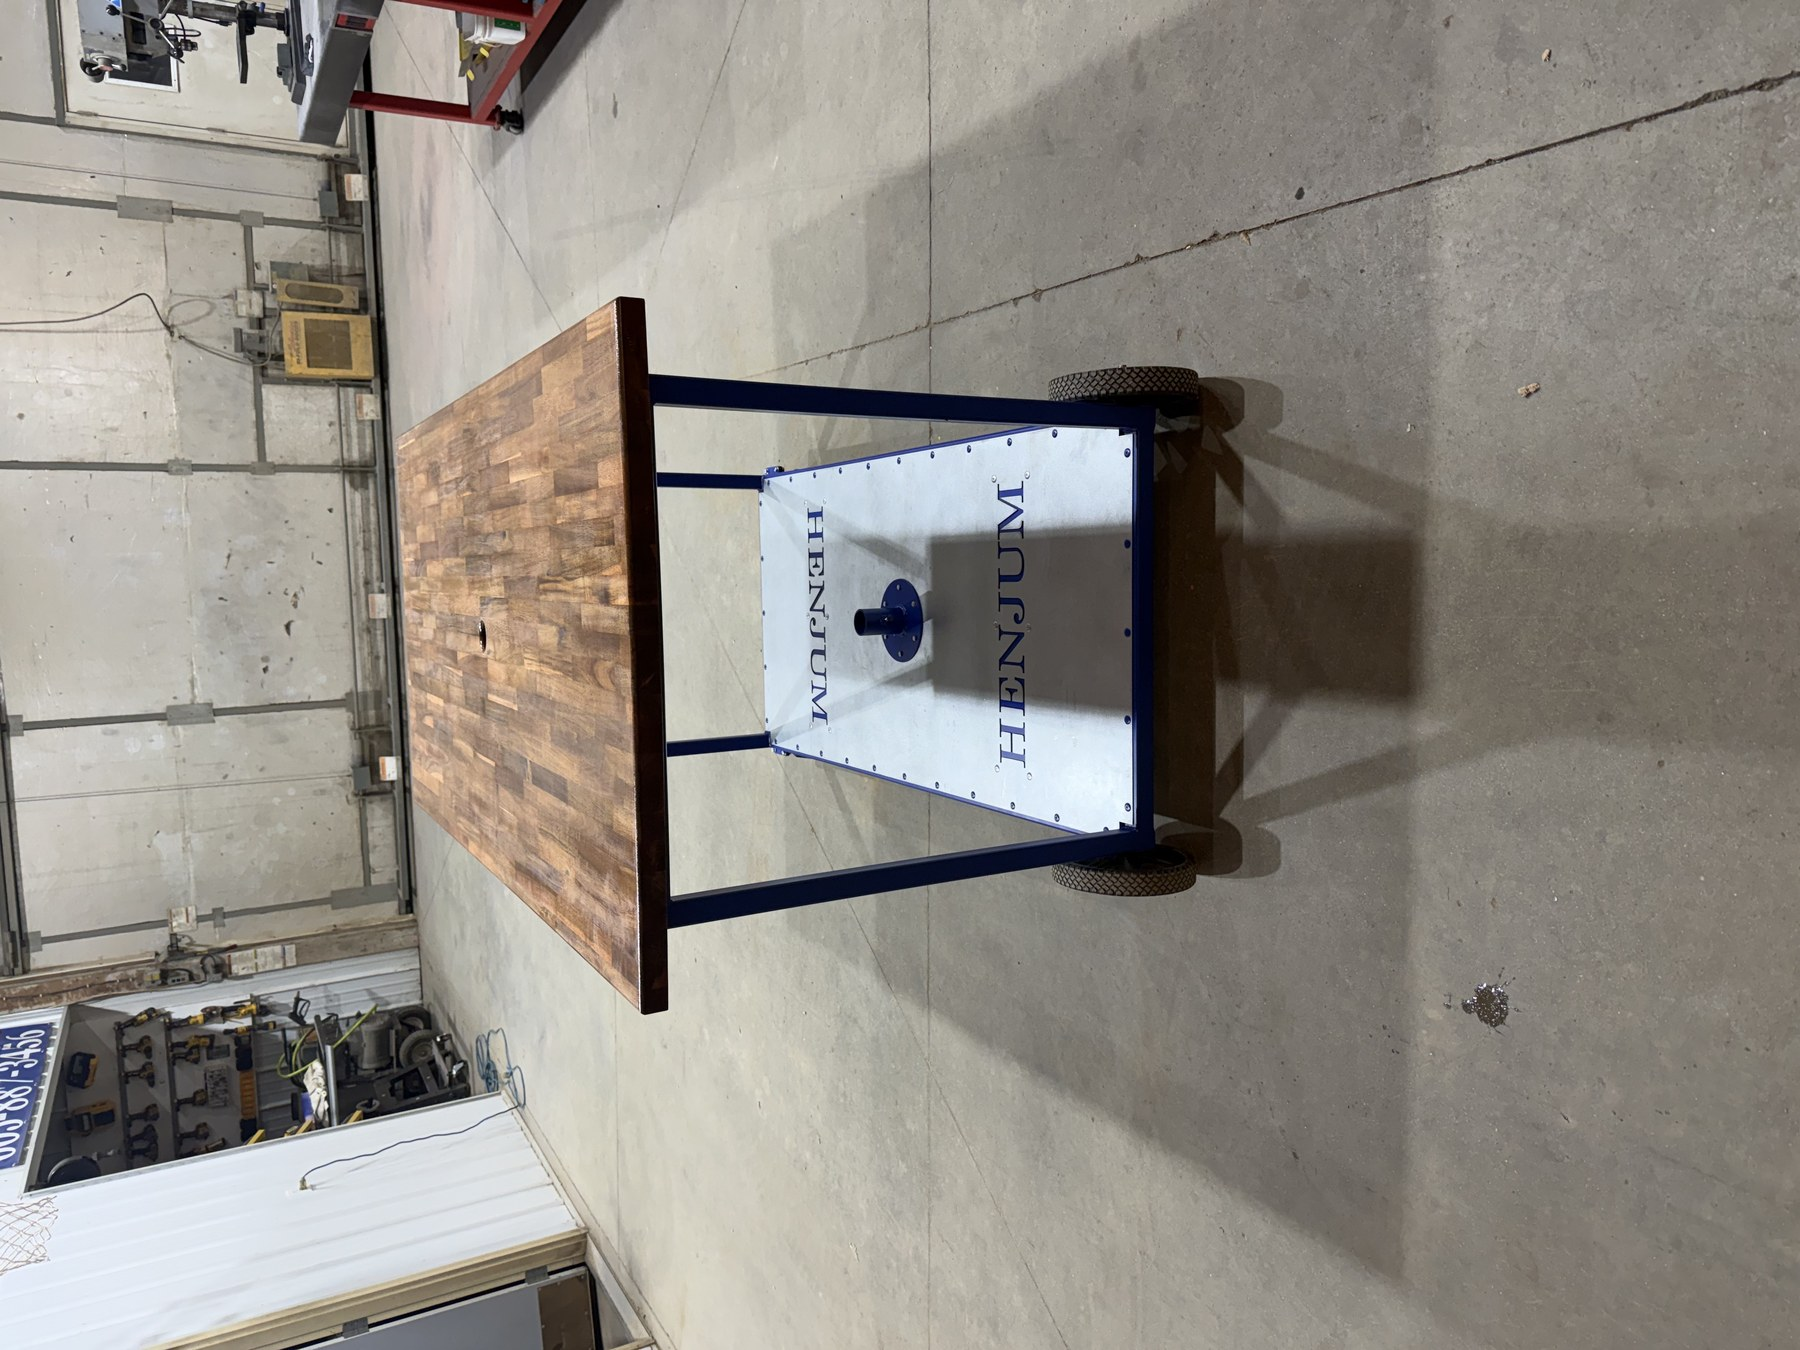
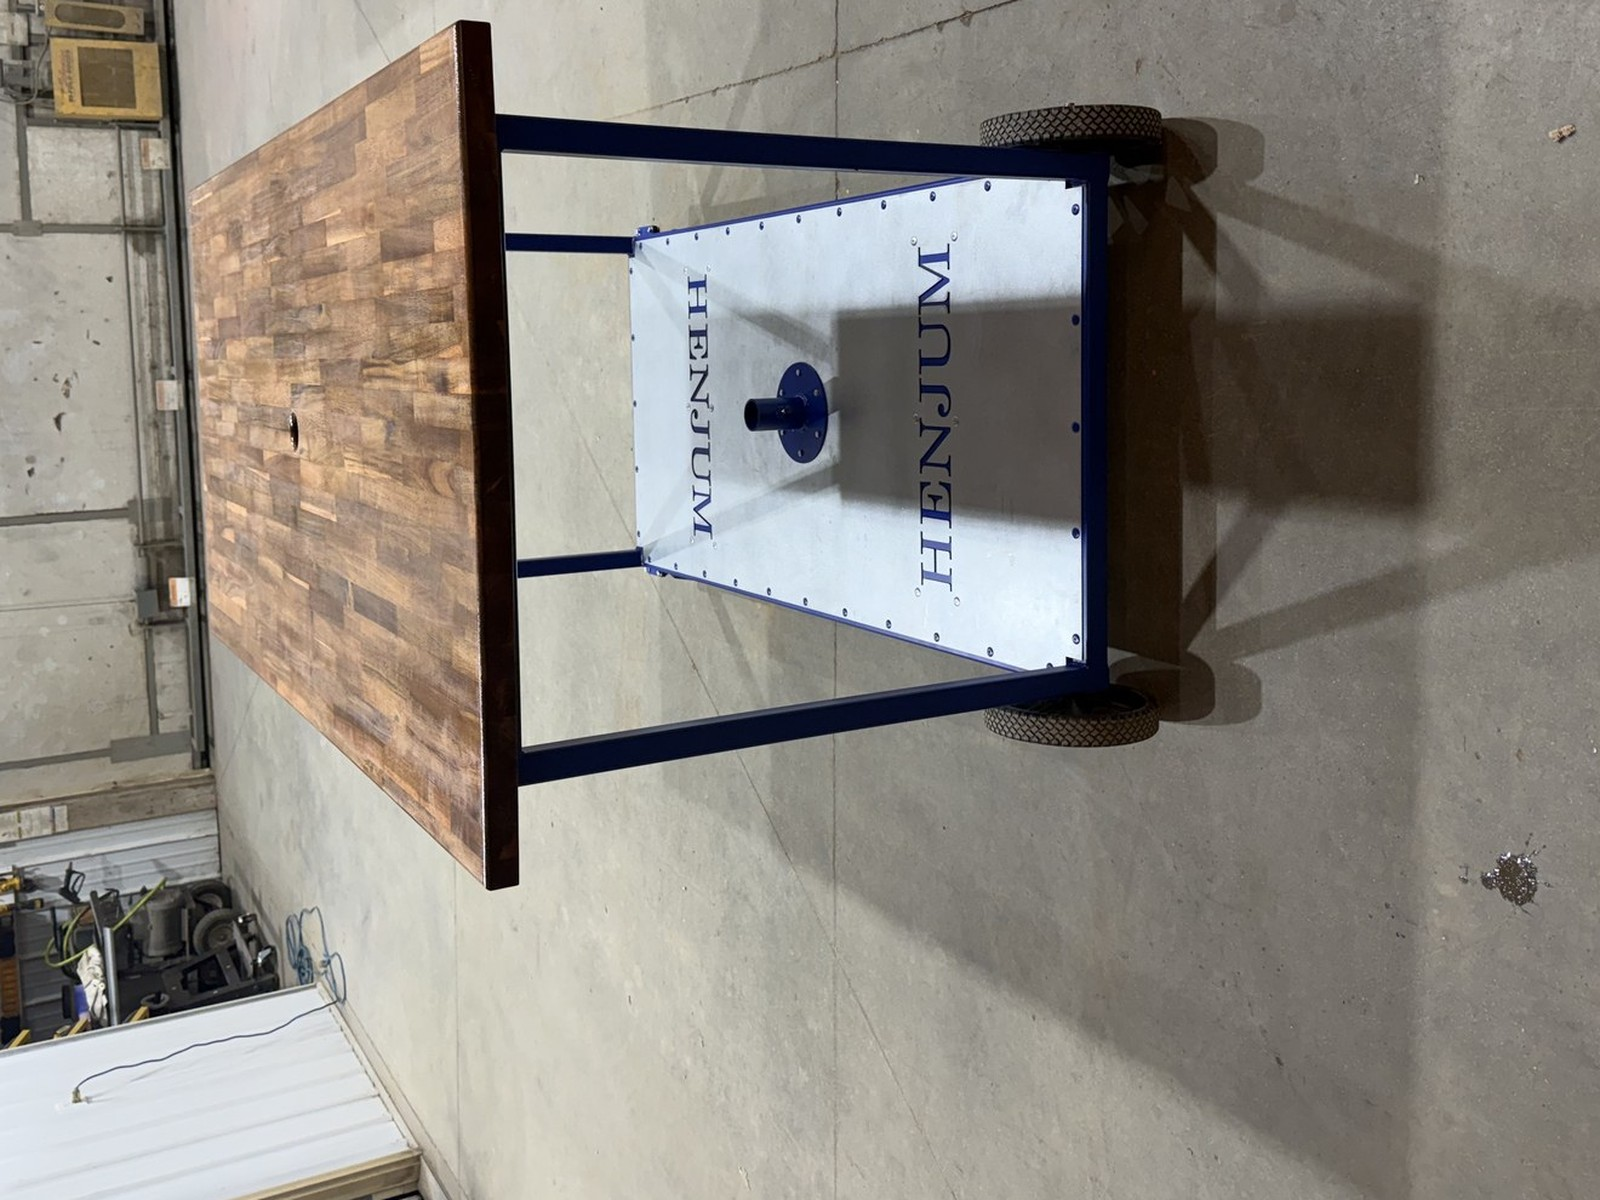
Better rolling-table hero crop and starting price at ,850.

diff --git a/src/lib/catalog.ts b/src/lib/catalog.ts
@@ -248,7 +248,7 @@ export const PRODUCTS: Product[] = [
     name: "Rolling Tables",
     category: "tables",
     kind: "custom",
-    priceCents: 149500,
+    priceCents: 185000,
     priceNote: "Starting price · size, top, and lettering quoted",
     blurb:
       "Welded steel bases on wheels — butcher-block work tables or a long console. Shop, cabin, or outdoor bar.",
@@ -258,13 +258,13 @@ export const PRODUCTS: Product[] = [
       "Optional plasma-cut name in the shelf",
       "Wheels that actually roll on gravel",
     ],
-    image: "/images/table-henjum.png",
+    image: "/images/table-henjum-hero.jpg",
     shots: [
+      "/images/table-henjum.png",
       "/images/table-henjum-yard.jpg",
       "/images/table-console.png",
       "/images/shop-table.jpg",
     ],
-    cutout: true,
   },
   {
     slug: "grain-bin-system",
